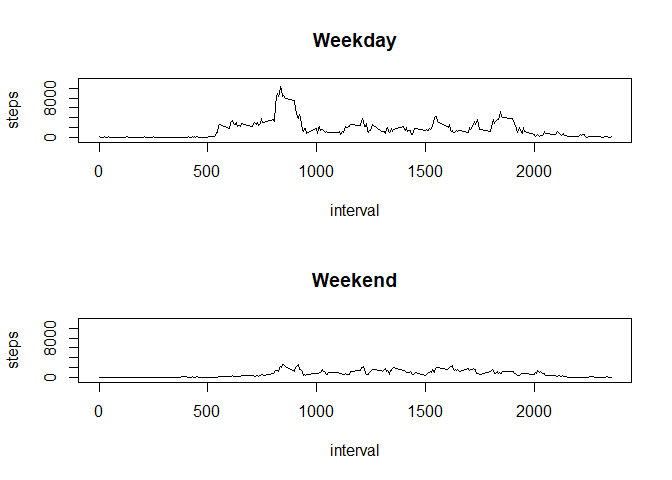
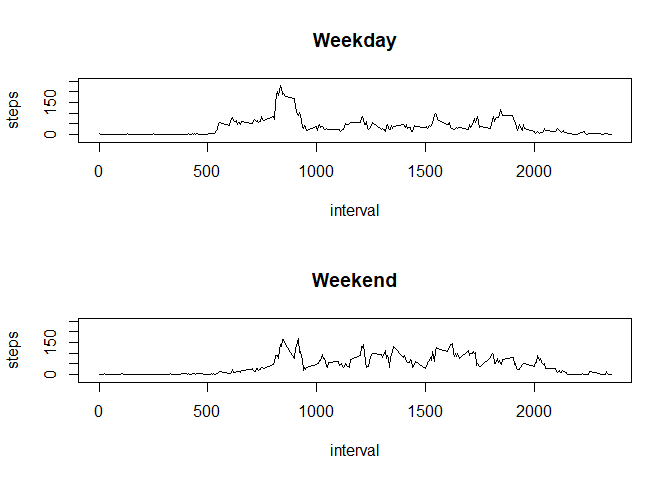
Correction to weekend weekday activity
Calculated average steps of each interval wrong. Summed and didn't average.

diff --git a/PA1_template.html b/PA1_template.html
@@ -194,12 +194,12 @@ print(paste(meansteps_fill, mediansteps_fill))</code></pre>
 <h2>Are there differences in activity patterns between weekdays and weekends?</h2>
 <pre class="r"><code>data[['day']] &lt;- weekdays(as.Date(data$date))
 data[['weekday']] &lt;- ifelse(data$day == 'Saturday' | data$day == 'Sunday', 1, 0)
-data_avg_steps_weekday &lt;- aggregate(steps ~ interval, data[data$weekday==0,], sum)
-data_avg_steps_weekend &lt;- aggregate(steps ~ interval, data[data$weekday==1,], sum)
+data_avg_steps_weekday &lt;- aggregate(steps ~ interval, data[data$weekday==0,], mean)
+data_avg_steps_weekend &lt;- aggregate(steps ~ interval, data[data$weekday==1,], mean)
 par(mfrow=c(2,1))
-plot(data_avg_steps_weekday, type='l', main='Weekday', ylim=c(-500, 11500))
-plot(data_avg_steps_weekend, type='l', main='Weekend', ylim=c(-500, 11500))</code></pre>
[1 lines of base64/hex data omitted]
+plot(data_avg_steps_weekday, type='l', main='Weekday', ylim=c(-25, 250))
+plot(data_avg_steps_weekend, type='l', main='Weekend', ylim=c(-25, 250))</code></pre>
[1 lines of base64/hex data omitted]
 </div>
 
 

diff --git a/PA1_template.md b/PA1_template.md
@@ -132,11 +132,11 @@ The mean remains the same from earlier but the median changes to match the mean 
 ```r
 data[['day']] <- weekdays(as.Date(data$date))
 data[['weekday']] <- ifelse(data$day == 'Saturday' | data$day == 'Sunday', 1, 0)
-data_avg_steps_weekday <- aggregate(steps ~ interval, data[data$weekday==0,], sum)
-data_avg_steps_weekend <- aggregate(steps ~ interval, data[data$weekday==1,], sum)
+data_avg_steps_weekday <- aggregate(steps ~ interval, data[data$weekday==0,], mean)
+data_avg_steps_weekend <- aggregate(steps ~ interval, data[data$weekday==1,], mean)
 par(mfrow=c(2,1))
-plot(data_avg_steps_weekday, type='l', main='Weekday', ylim=c(-500, 11500))
-plot(data_avg_steps_weekend, type='l', main='Weekend', ylim=c(-500, 11500))
+plot(data_avg_steps_weekday, type='l', main='Weekday', ylim=c(-25, 250))
+plot(data_avg_steps_weekend, type='l', main='Weekend', ylim=c(-25, 250))
 ```
 
 ![](PA1_template_files/figure-html/unnamed-chunk-6-1.png)<!-- -->
